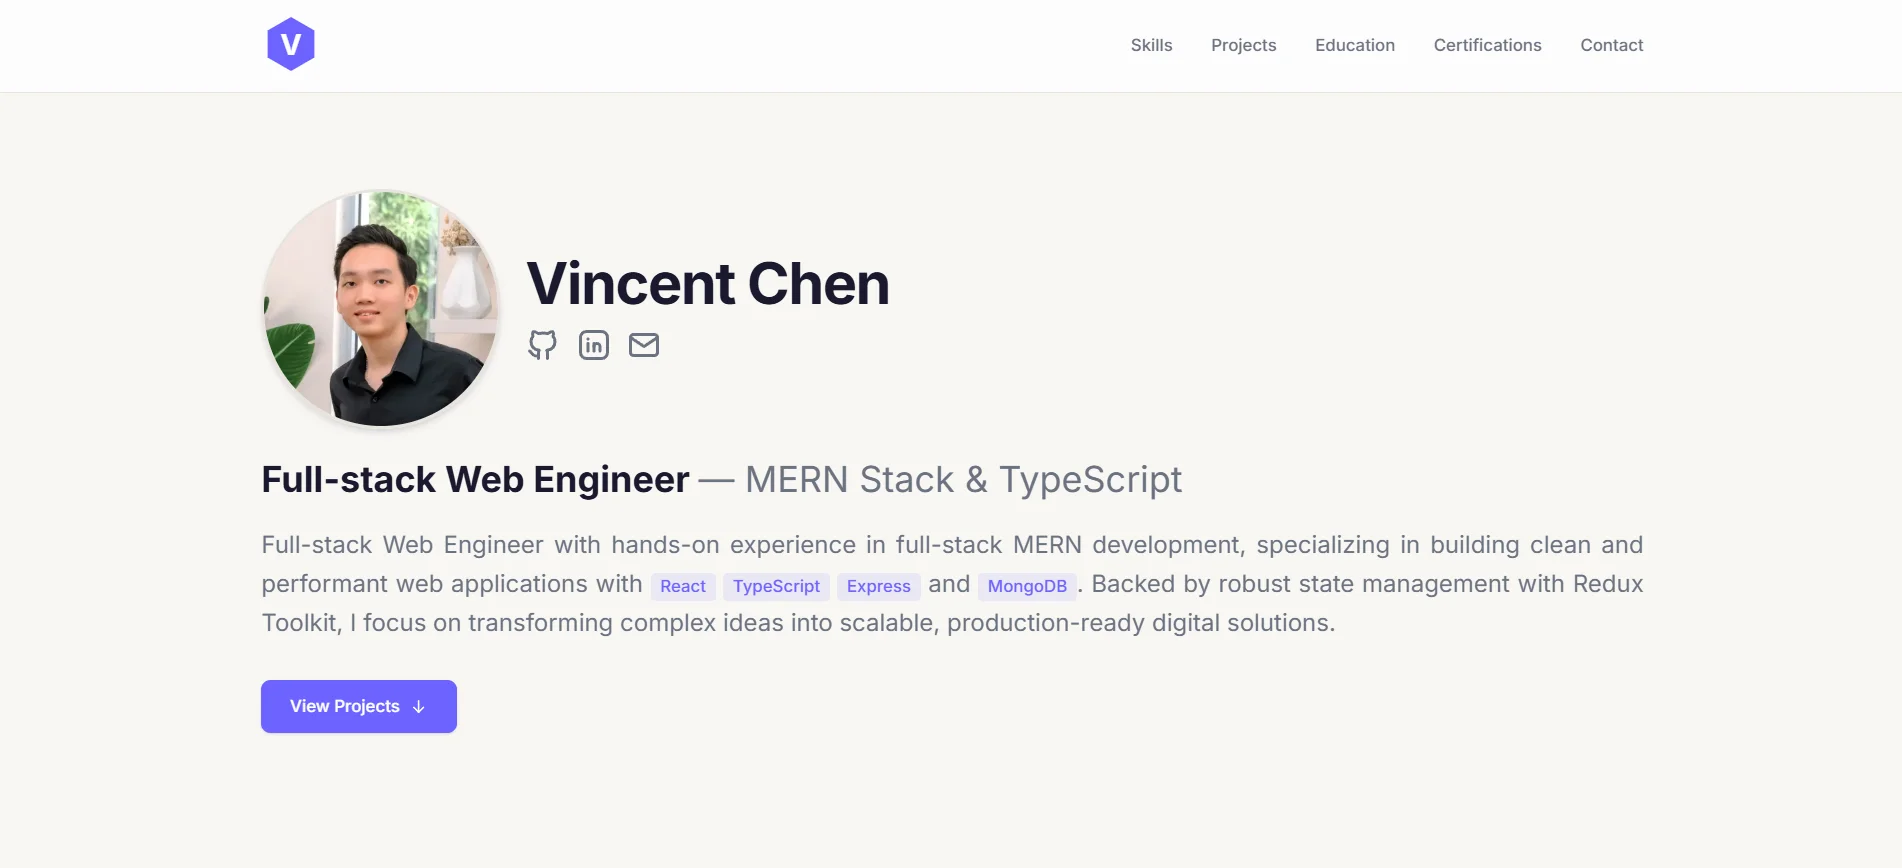
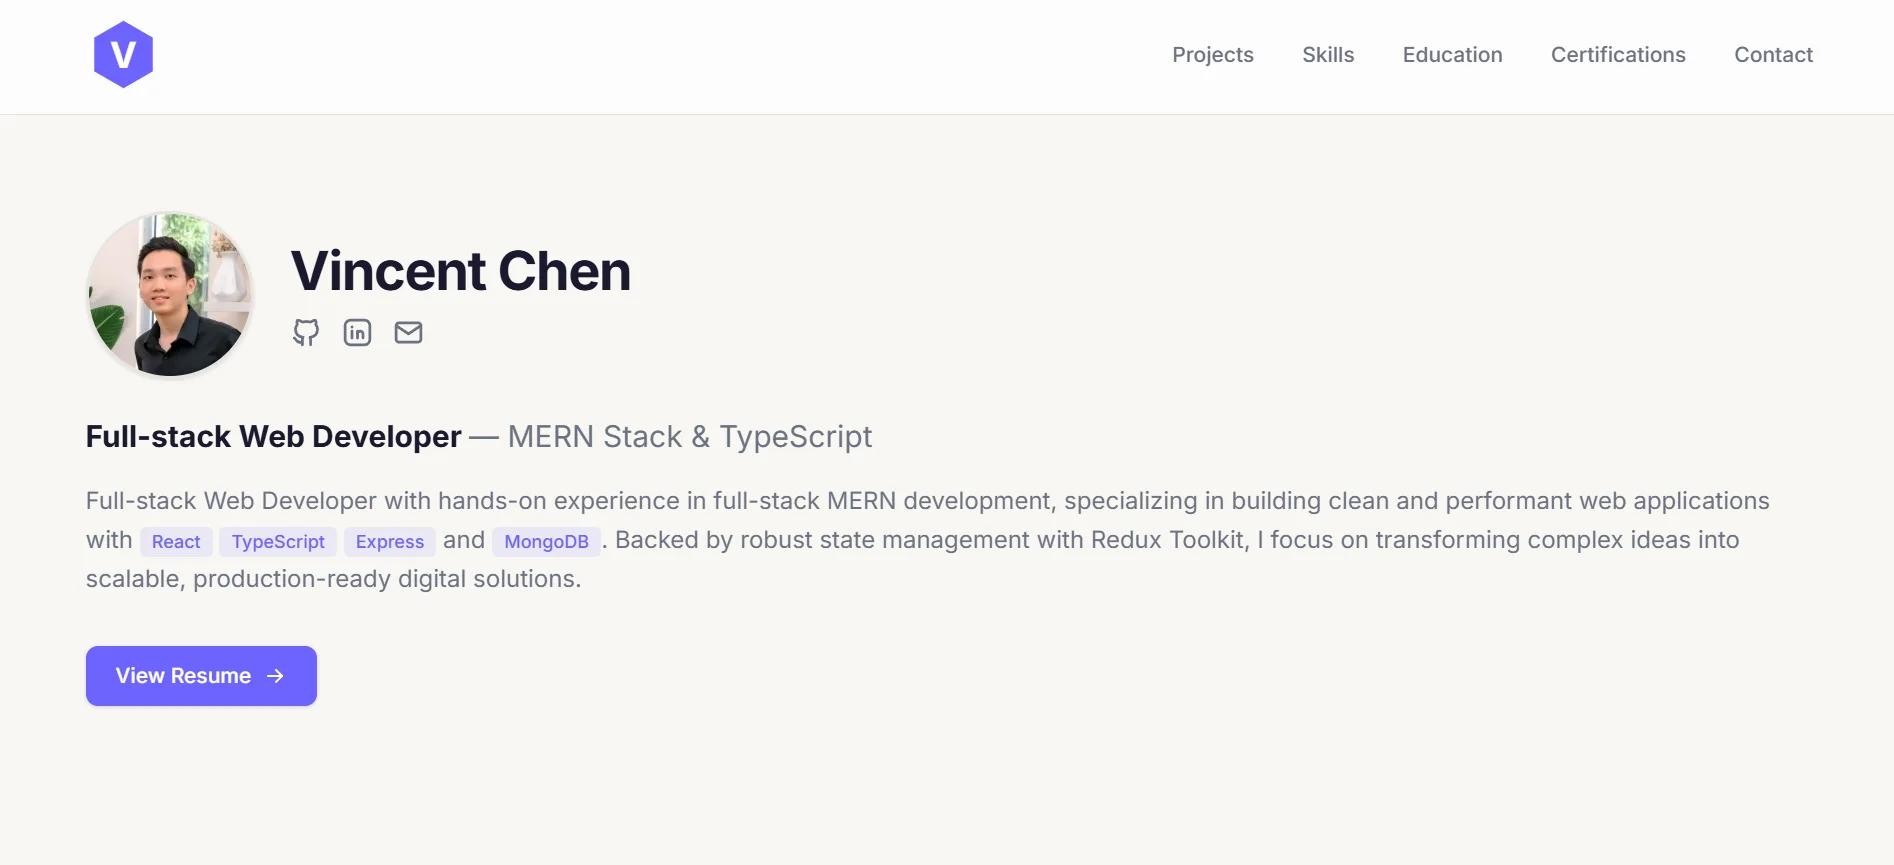
feat(projects): update portfolio showcase with latest WebP screenshots and Google Search indexing

diff --git a/data/projects.ts b/data/projects.ts
@@ -25,6 +25,10 @@ export const projects: Project[] = [
         title: "Lighthouse Performance & SEO Audit",
         imageUrl: "/images/projects/personal-web/lighthouse-personal.webp",
       },
+      {
+        title: "Google Search Indexing & Favicon",
+        imageUrl: "/images/projects/personal-web/seo-personal.webp",
+      },
     ],
   },
 
